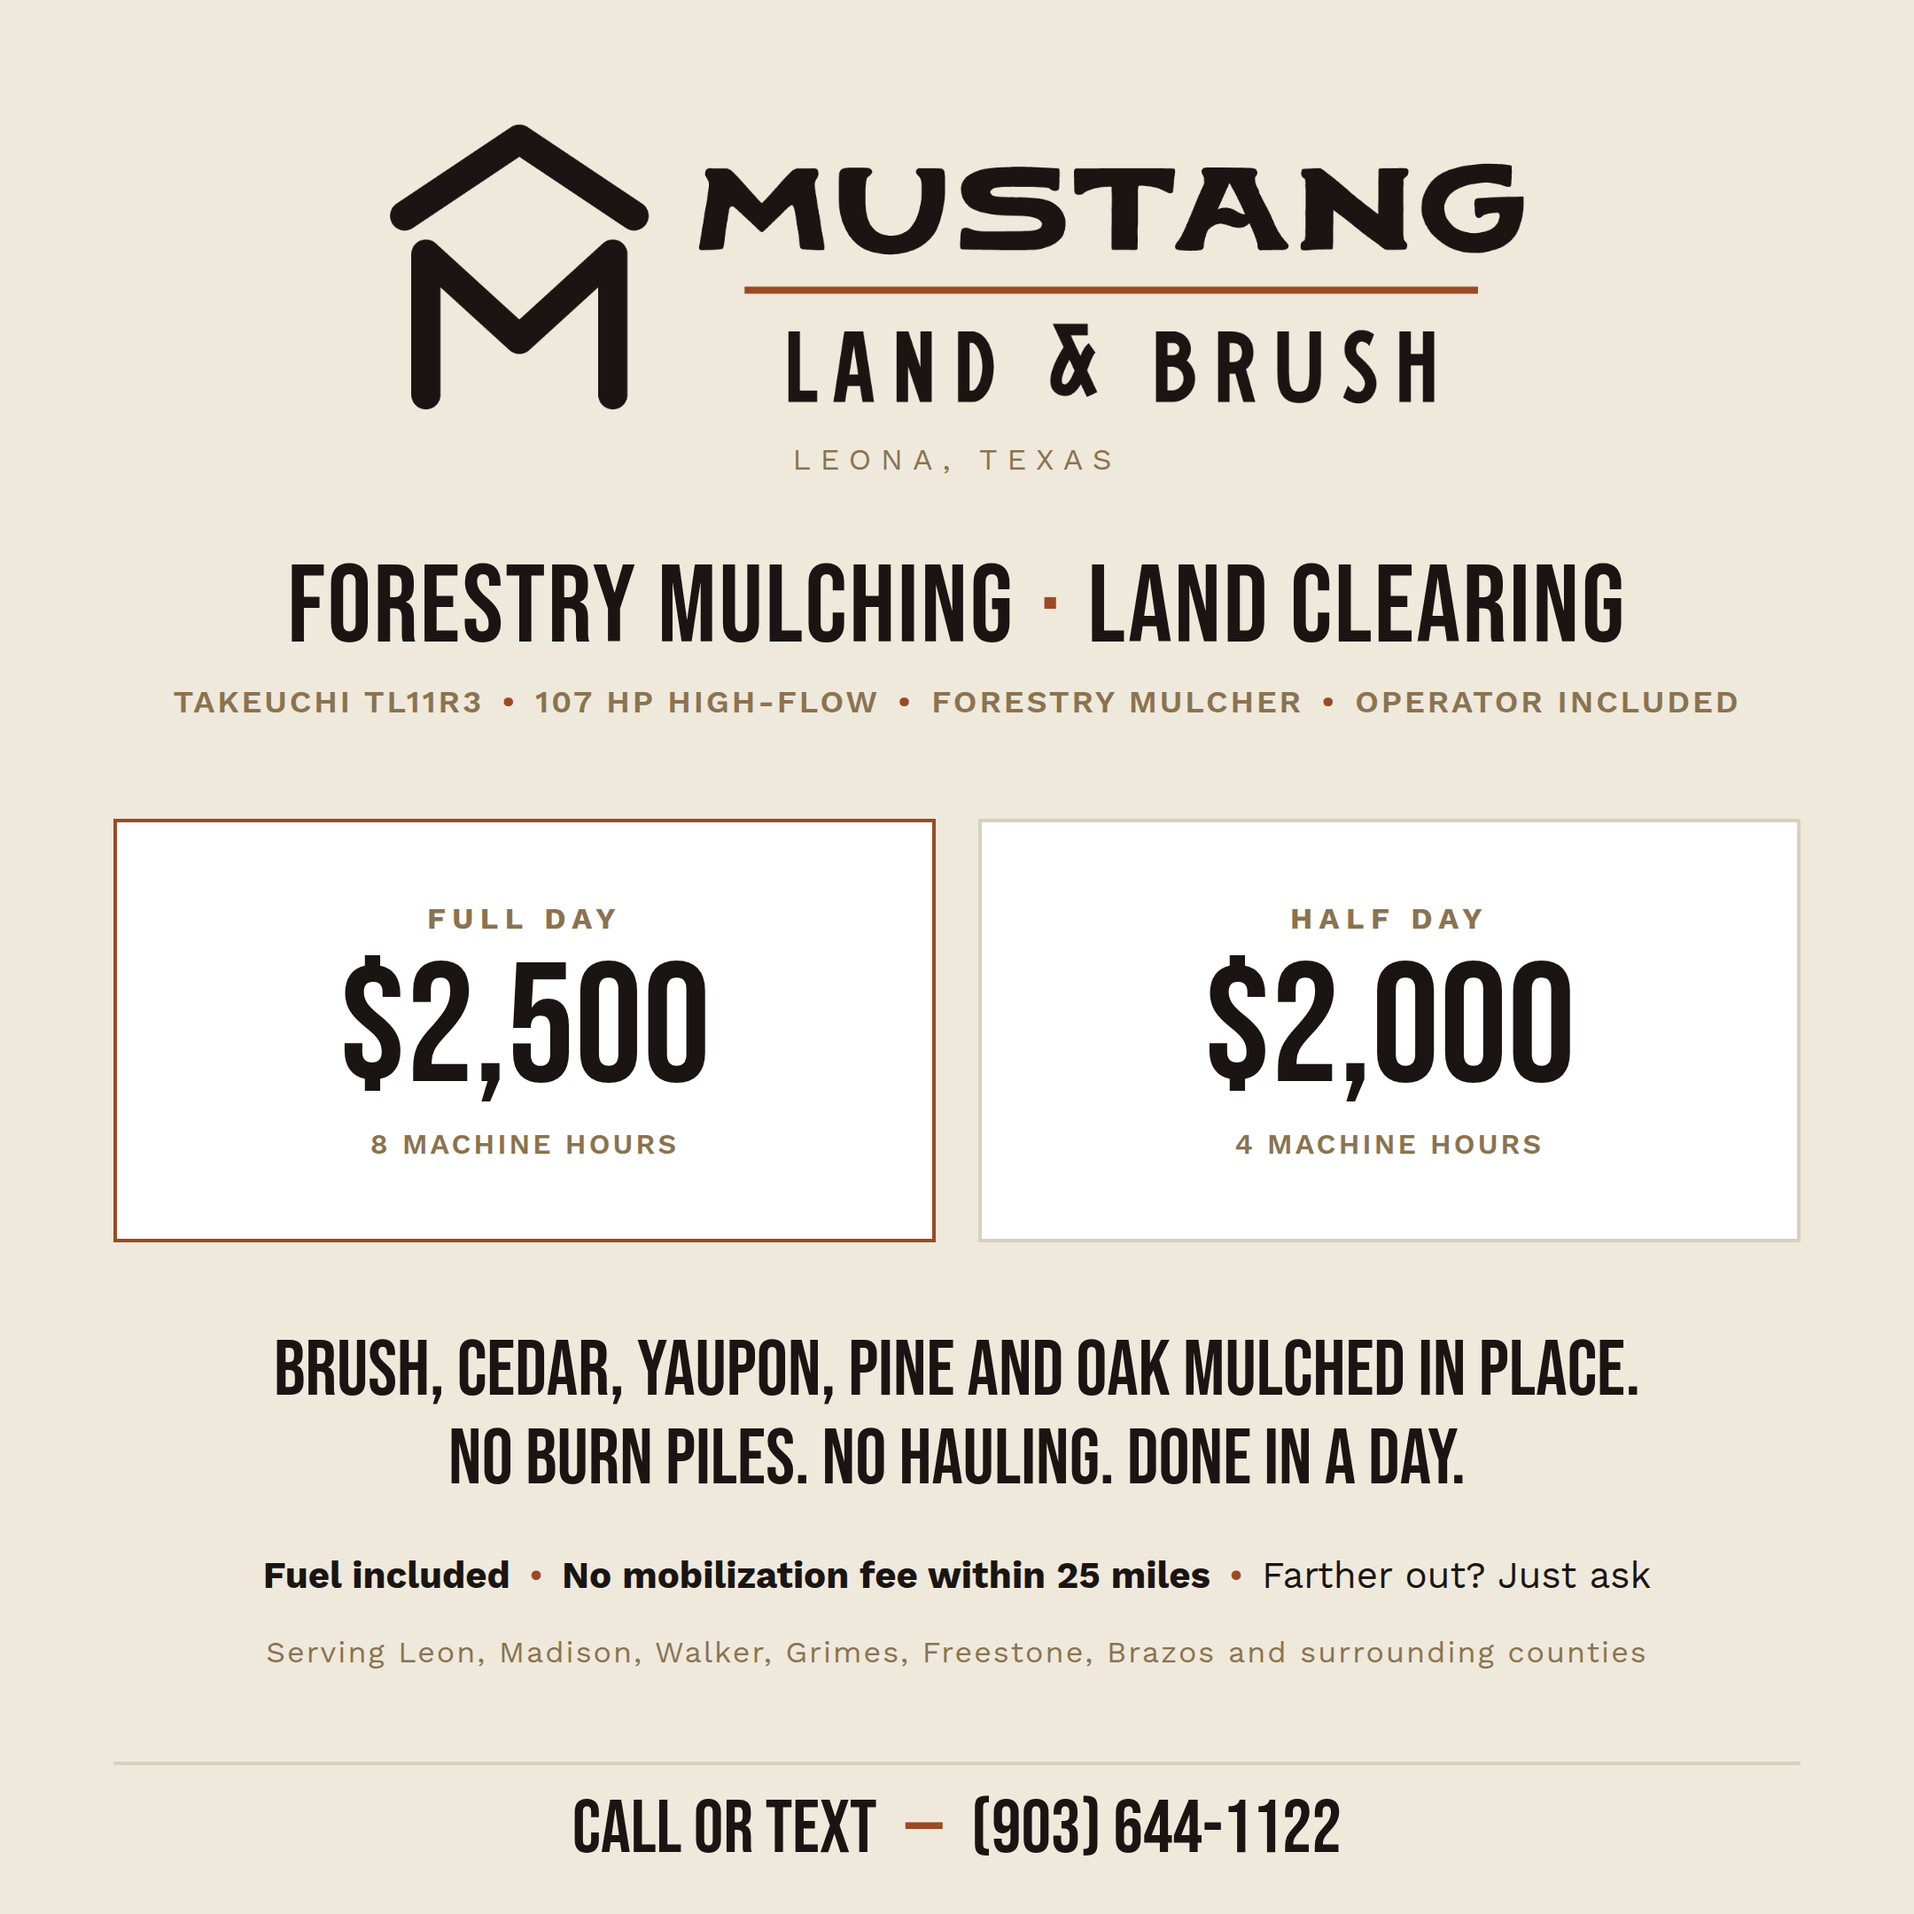
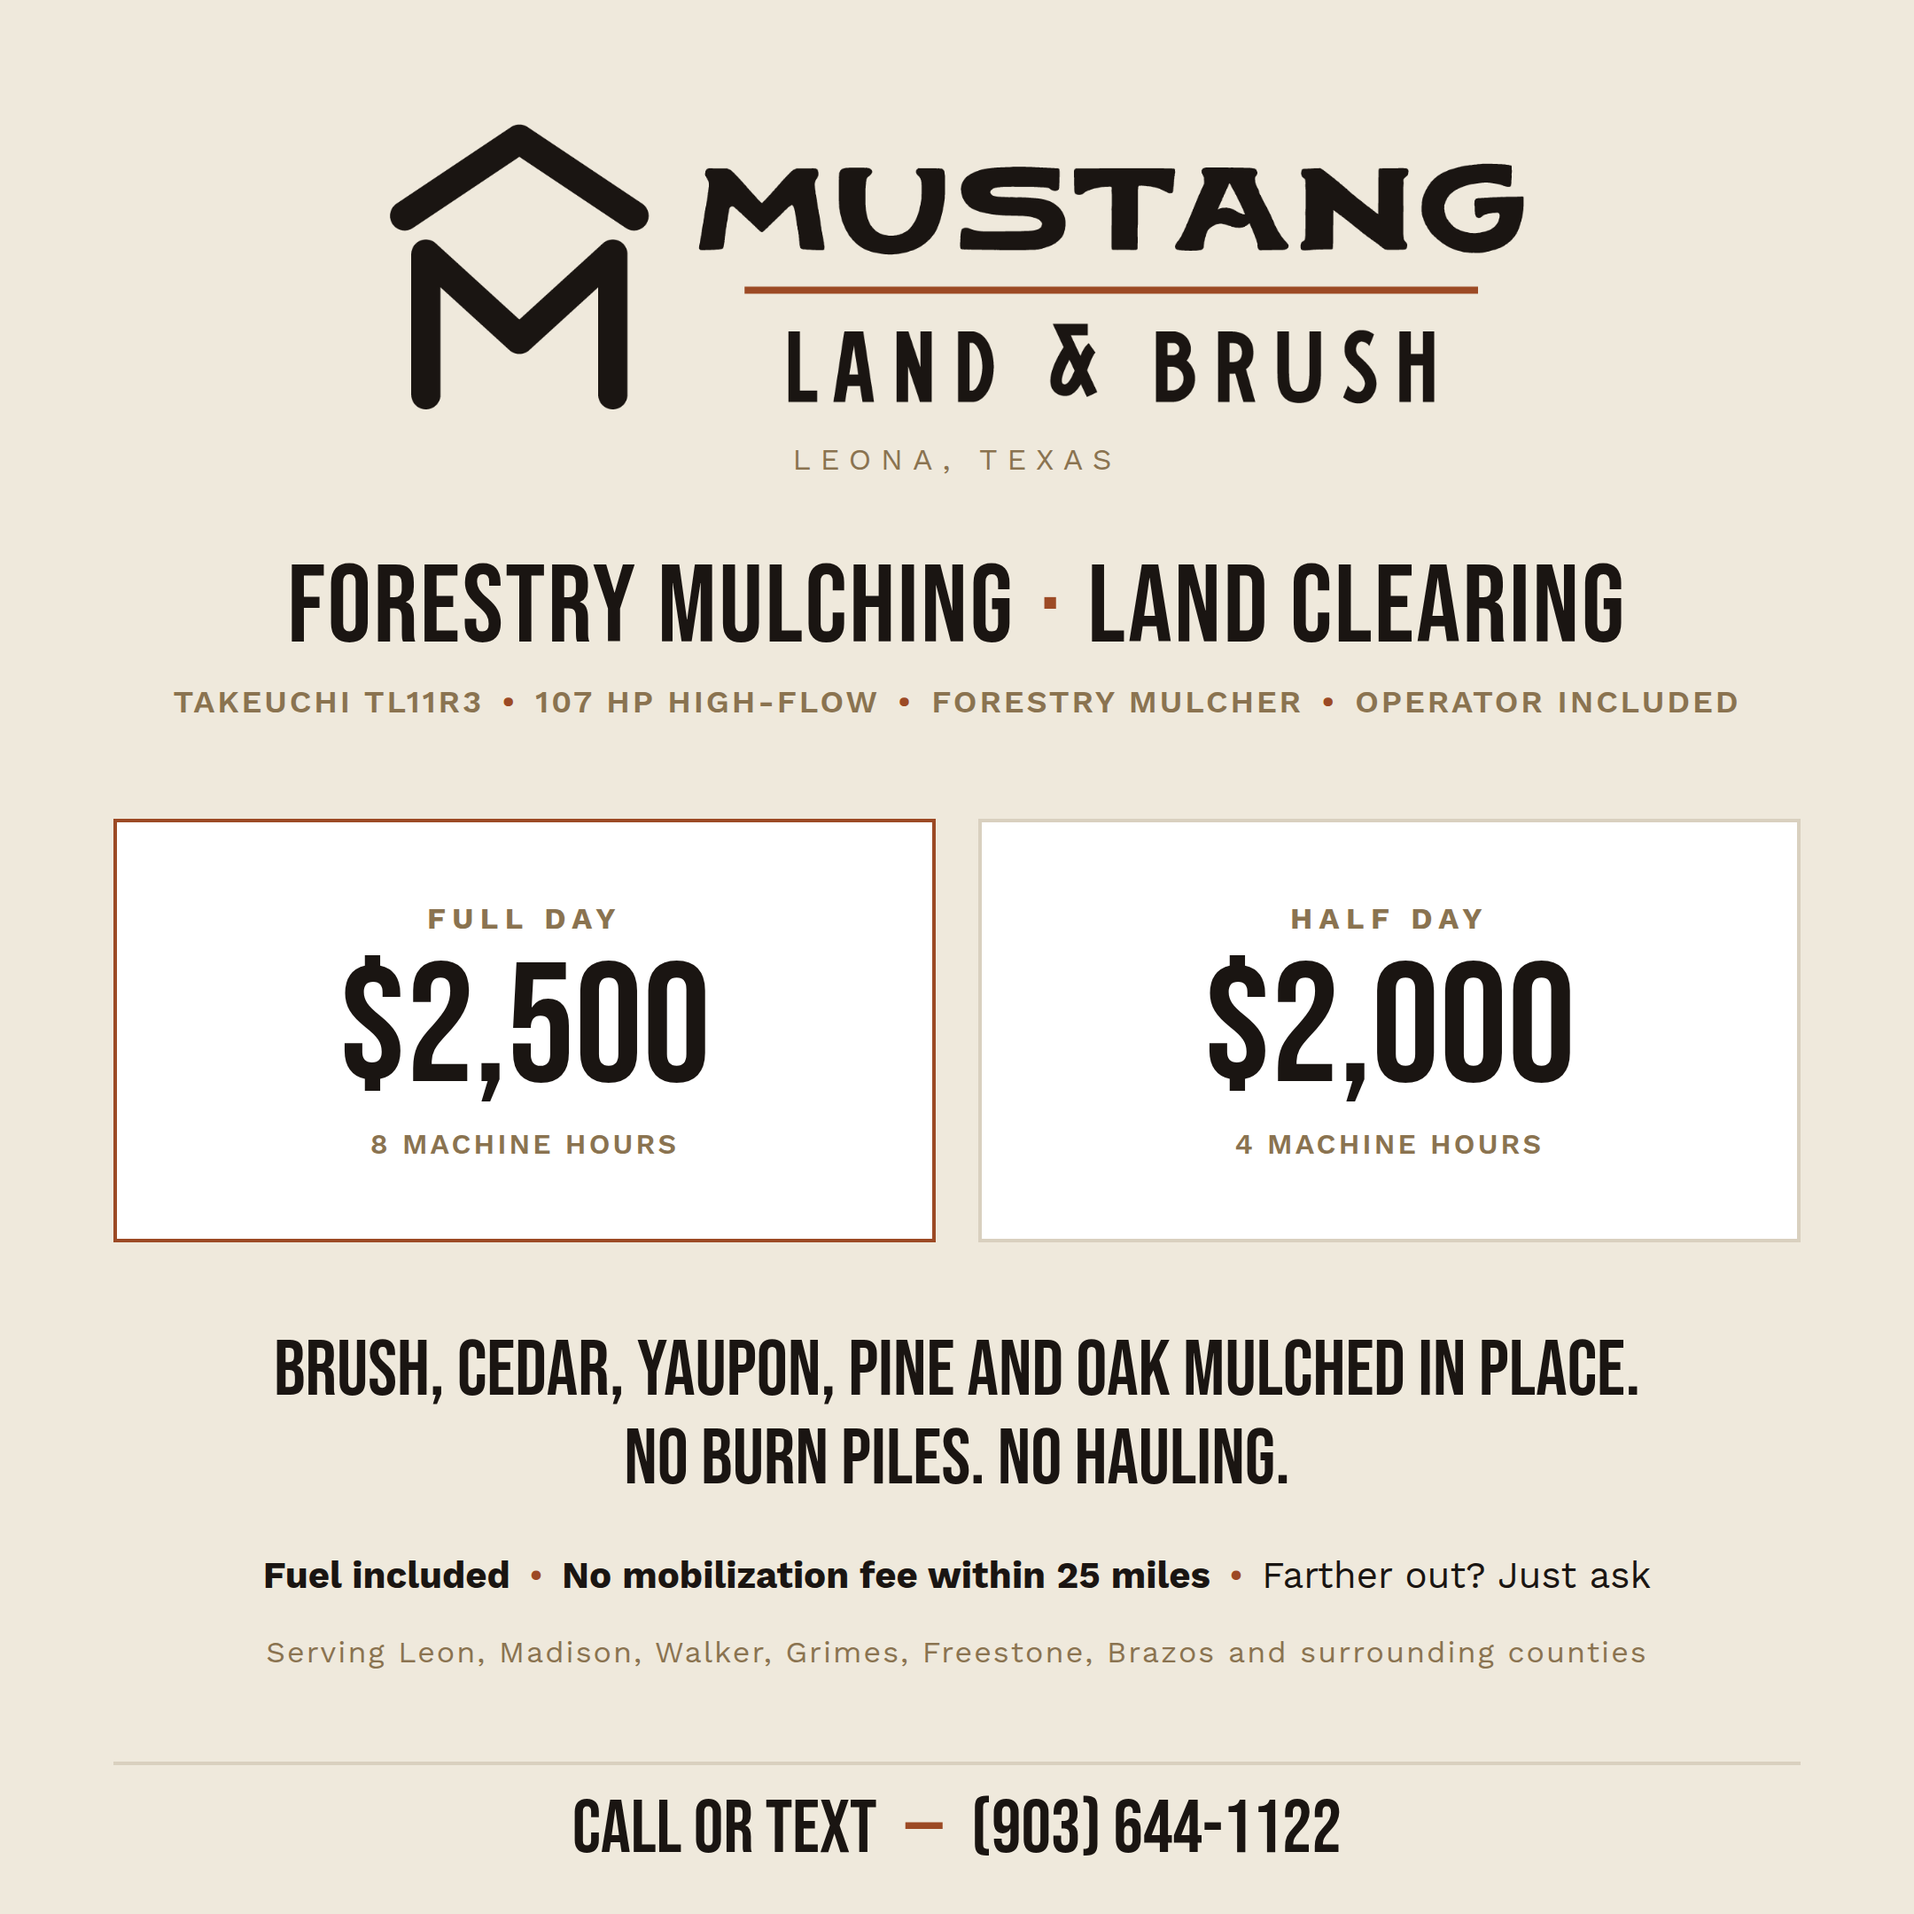
Mustang cards: remove done-in-a-day
Claude-Session: https://claude.ai/code/session_01MjBdAn1tqXy1S9X7E6qMHj

Changed region(s): [[0.2171, 0.7444, 0.7755, 0.7755]]

diff --git a/marketing/mustang/mustang-card-phone.html b/marketing/mustang/mustang-card-phone.html
@@ -41,7 +41,7 @@ html,body{width:1080px;height:1080px;background:var(--bg);color:var(--bone);font
     <div class="rate"><div class="lbl">Half day</div><div class="amt bebas">$2,000</div><div class="sub">4 machine hours</div></div>
   </div>
   <div class="terms">
-    <span class="result">Brush, cedar, yaupon, pine and oak mulched in place.<br>No burn piles. No hauling. Done in a day.</span><br>
+    <span class="result">Brush, cedar, yaupon, pine and oak mulched in place.<br>No burn piles. No hauling.</span><br>
         <b>Fuel included</b><span class="dot">•</span><b>No mobilization fee within 25 miles</b><span class="dot">•</span>Farther out? Just ask<br>
     <span class="muted">Serving Leon, Madison, Walker, Grimes, Freestone, Brazos and surrounding counties</span>
   </div>

diff --git a/marketing/mustang/mustang-card.html b/marketing/mustang/mustang-card.html
@@ -41,7 +41,7 @@ html,body{width:1080px;height:1080px;background:var(--bg);color:var(--bone);font
     <div class="rate"><div class="lbl">Half day</div><div class="amt bebas">$2,000</div><div class="sub">4 machine hours</div></div>
   </div>
   <div class="terms">
-    <span class="result">Brush, cedar, yaupon, pine and oak mulched in place.<br>No burn piles. No hauling. Done in a day.</span><br>
+    <span class="result">Brush, cedar, yaupon, pine and oak mulched in place.<br>No burn piles. No hauling.</span><br>
         <b>Fuel included</b><span class="dot">•</span><b>No mobilization fee within 25 miles</b><span class="dot">•</span>Farther out? Just ask<br>
     <span class="muted">Serving Leon, Madison, Walker, Grimes, Freestone, Brazos and surrounding counties</span>
   </div>
